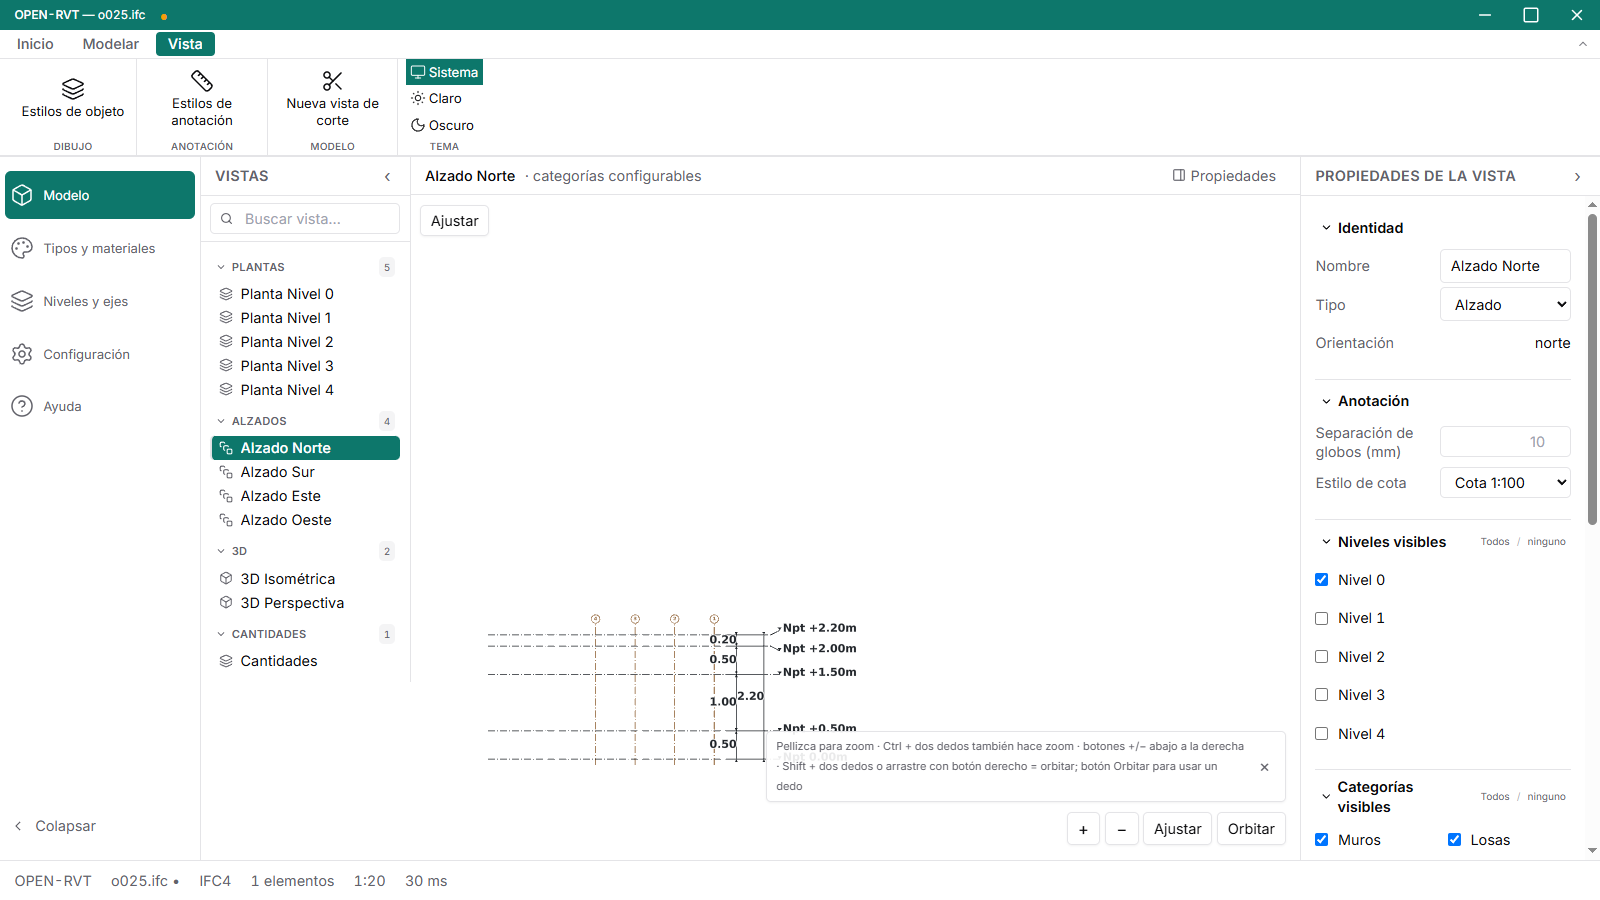
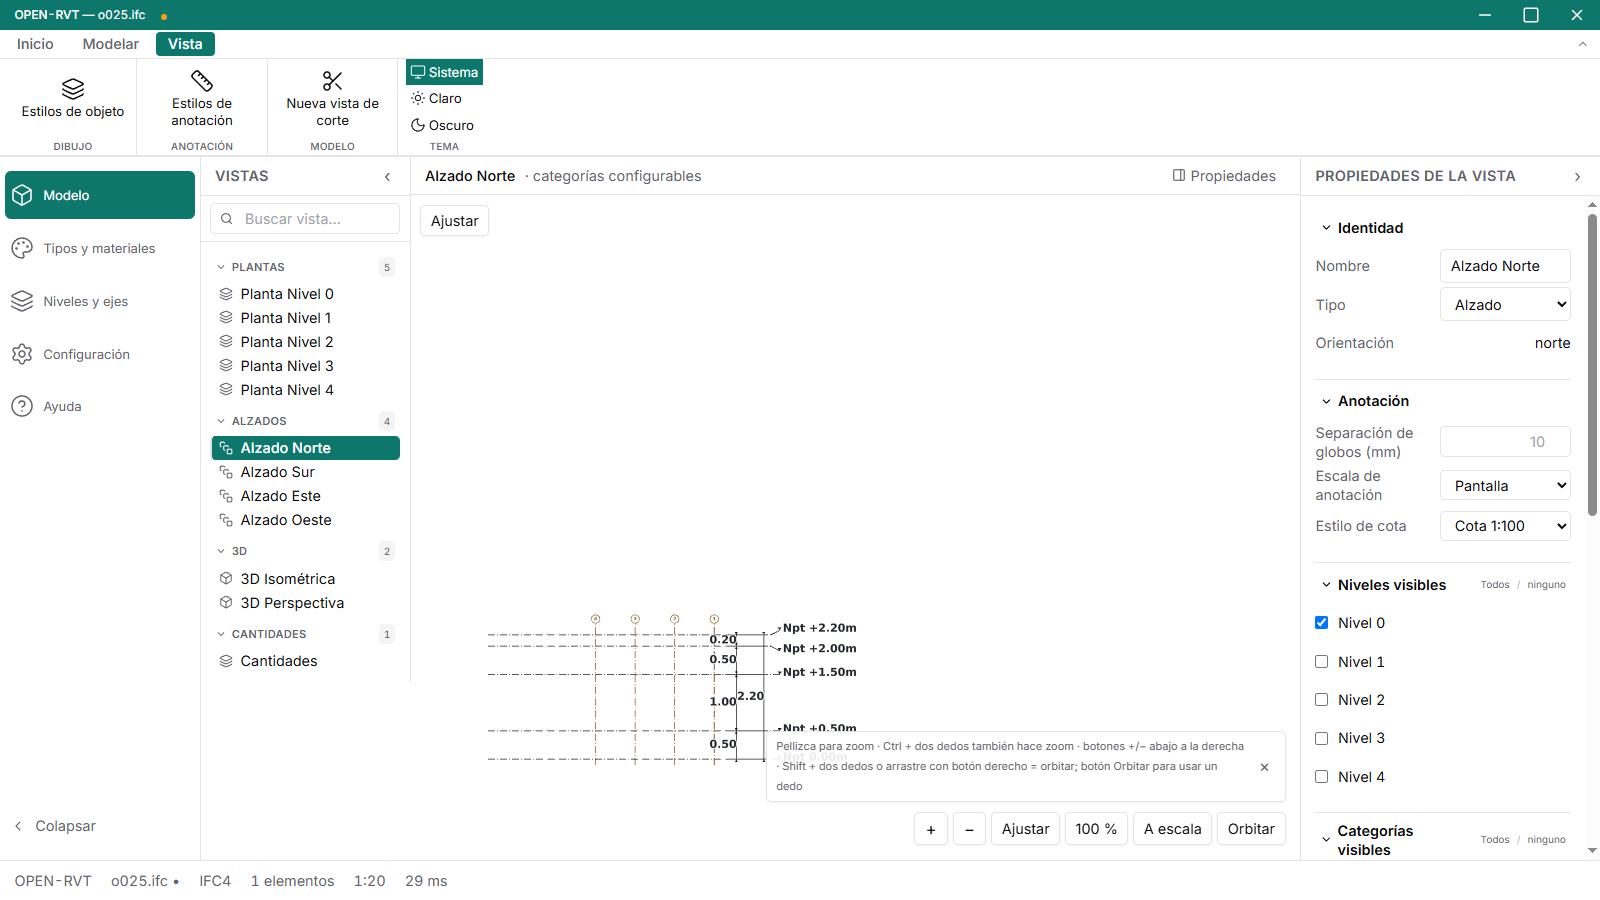
O030: zoom recalcula la anotación en pantalla, E2E y capturas; O025 conserva capturas legibles

diff --git a/e2e/o030.test.js b/e2e/o030.test.js
@@ -1,0 +1,272 @@
+// O030: la anotación en modo «A escala» mide mm de papel por la escala de la
+// vista (0.25 m de modelo por 2.5 mm a 1:100) y crece con el zoom; en
+// «Pantalla» conserva su alto en píxeles. Se mide con la app real de Tauri.
+"use strict";
+
+const { test } = require("node:test");
+const assert = require("node:assert/strict");
+const fs = require("node:fs");
+const os = require("node:os");
+const path = require("node:path");
+const { Sesion, esperar, By, until } = require("./arnes");
+
+const RAIZ = path.resolve(__dirname, "..");
+const PROGRESO = path.join(RAIZ, "docs", "progreso", "O030");
+fs.mkdirSync(PROGRESO, { recursive: true });
+
+const textoDom = (ses, selector) =>
+  ses.driver.executeScript(
+    (selector) => document.querySelector(selector)?.textContent?.trim() ?? null,
+    selector,
+  );
+
+async function cambiarPestana(ses, nombre) {
+  const pestana = await ses.driver.wait(
+    until.elementLocated(By.xpath(`//*[@role="tab"][normalize-space(.)="${nombre}"]`)),
+    10_000,
+  );
+  await pestana.click();
+  await esperar(200);
+}
+
+async function activar(ses, testid) {
+  const ok = await ses.driver.executeScript((testid) => {
+    const el = document.querySelector(`[data-testid="${testid}"]`);
+    if (!el || el.disabled) return false;
+    el.click();
+    return true;
+  }, testid);
+  assert.equal(ok, true, `no se pudo pulsar ${testid}`);
+  await esperar(350);
+}
+
+async function elegirVista(ses, nombre) {
+  const boton = await ses.driver.wait(
+    until.elementLocated(
+      By.xpath(`//button[@data-testid="vista-item"][normalize-space(.)="${nombre}"]`),
+    ),
+    10_000,
+    `no apareció la vista ${nombre}`,
+  );
+  await boton.click();
+  await esperar(800);
+}
+
+async function instalarDialogos(ses, rutas) {
+  await ses.driver.executeScript(
+    (rutas) => {
+      window.__PP_DIALOGO_PRUEBAS__ = async (peticion) => {
+        if (peticion.tipo === "abrir-ifc") return rutas.abrir || null;
+        if (peticion.tipo === "guardar-ifc") return rutas.guardar || null;
+        return null;
+      };
+    },
+    rutas,
+  );
+}
+
+async function invocar(ses, metodo, params = {}) {
+  const respuesta = await ses.driver.executeAsyncScript(
+    function (metodo, params, done) {
+      window.__TAURI_INTERNALS__
+        .invoke("nucleo_llamar", { metodo, params })
+        .then((crudo) => done({ ok: true, valor: crudo && crudo.status === "ok" ? crudo.data : crudo }))
+        .catch((error) => done({ ok: false, error: String(error) }));
+    },
+    metodo,
+    params,
+  );
+  assert.equal(respuesta.ok, true, `falló ${metodo}: ${respuesta.error}`);
+  return respuesta.valor;
+}
+
+async function clicMundo(ses, x, y) {
+  const punto = await ses.driver.executeScript(
+    (x, y) => document.querySelector('[data-testid="visor"]').__openrvtMundoAPantalla(x, y, 0),
+    x,
+    y,
+  );
+  await ses.driver.executeScript(
+    (punto) => {
+      const canvas = document.querySelector('[data-testid="visor"] canvas');
+      const opciones = {
+        bubbles: true,
+        cancelable: true,
+        button: 0,
+        buttons: 1,
+        pointerId: 1,
+        pointerType: "mouse",
+        clientX: punto.x,
+        clientY: punto.y,
+      };
+      canvas.dispatchEvent(new PointerEvent("pointerdown", opciones));
+      window.dispatchEvent(new PointerEvent("pointerup", { ...opciones, buttons: 0 }));
+    },
+    punto,
+  );
+  await esperar(320);
+}
+
+async function tecla(ses, key, code) {
+  await ses.driver.executeScript(
+    (key, code) => {
+      window.dispatchEvent(new KeyboardEvent("keydown", { key, code, bubbles: true, cancelable: true }));
+      window.dispatchEvent(new KeyboardEvent("keyup", { key, code, bubbles: true, cancelable: true }));
+    },
+    key,
+    code,
+  );
+  await esperar(250);
+}
+
+async function fijarValor(ses, testid, valor) {
+  await ses.driver.executeScript(
+    (testid, valor) => {
+      const el = document.querySelector(`[data-testid="${testid}"]`);
+      if (!el) throw new Error(`falta ${testid}`);
+      const prototipo =
+        el.tagName === "SELECT" ? HTMLSelectElement.prototype : HTMLInputElement.prototype;
+      Object.getOwnPropertyDescriptor(prototipo, "value").set.call(el, valor);
+      el.dispatchEvent(new Event("input", { bubbles: true }));
+      el.dispatchEvent(new Event("change", { bubbles: true }));
+    },
+    testid,
+    valor,
+  );
+  await esperar(150);
+}
+
+async function altoNivel(ses, texto) {
+  const dato = await ses.driver.executeScript(
+    (texto) => {
+      const datos = document.querySelector('[data-testid="visor"]').__openrvtAlzadoAnotacionesPantalla();
+      const caja = datos?.etiquetas.find((e) => e.tipo === "nivel" && e.texto === texto);
+      return caja ? caja.y1 - caja.y0 : datos?.etiquetas.map((e) => `${e.tipo}:${e.texto}`).join("|") ?? "sin datos";
+    },
+    texto,
+  );
+  assert.ok(typeof dato === "number" && dato > 0, `no se midió ${texto}: ${dato}`);
+  return dato;
+}
+
+test("O030: anotación a escala crece con el zoom y en pantalla no", async () => {
+  const ses = await Sesion.abrir({
+    prueba: "o030",
+    tamano: { ancho: 1600, alto: 900 },
+    lateralExpandido: true,
+    compositar: true,
+  });
+  const carpeta = fs.mkdtempSync(path.join(os.tmpdir(), "openrvt-o030-"));
+  const ruta = path.join(carpeta, "o030.ifc");
+  try {
+    await instalarDialogos(ses, { abrir: ruta, guardar: ruta });
+    await activar(ses, "cmd-nuevo");
+    await ses.driver.wait(async () => {
+      try {
+        return (await textoDom(ses, '[data-testid="estado-esquema"]')) === "IFC4";
+      } catch {
+        return false;
+      }
+    }, 20_000, "el modelo nuevo no cargó");
+    await cambiarPestana(ses, "Modelar");
+    for (let i = 0; i < 4; i += 1) await activar(ses, "cmd-nivel");
+    await activar(ses, "cmd-muro");
+    await clicMundo(ses, 0, 0);
+    await clicMundo(ses, 3, 0);
+    await tecla(ses, "Escape", "Escape");
+    await tecla(ses, "Escape", "Escape");
+    await esperar(500);
+
+    const niveles = (await invocar(ses, "modelo.niveles")).sort(
+      (a, b) => a.elevacion - b.elevacion,
+    );
+    const elevaciones = [0, 0.5, 1.5, 2, 2.2];
+    for (let i = 0; i < 5; i += 1) {
+      await invocar(ses, "niveles.editar", {
+        globalid: niveles[i].globalid,
+        nombre: niveles[i].nombre,
+        elevacion: elevaciones[i],
+      });
+    }
+
+    // Guardar y reabrir para que el visor reciba las elevaciones editadas.
+    await cambiarPestana(ses, "Inicio");
+    await activar(ses, "cmd-guardar");
+    await esperar(900);
+    await activar(ses, "cmd-abrir");
+    await ses.driver.wait(async () => {
+      try {
+        return (await textoDom(ses, '[data-testid="estado-modelo"]')) === "o030.ifc";
+      } catch {
+        return false;
+      }
+    }, 30_000, "no reabrió el modelo");
+
+    await elegirVista(ses, "Alzado Norte");
+    await esperar(900);
+    await fijarValor(ses, "vista-escala", "100");
+    await esperar(500);
+    await activar(ses, "visor-ajustar");
+    await esperar(600);
+    // Encuadrar la anotación (ejes, cotas y cabezas) como en la captura de O025.
+    const marco = await ses.driver.executeScript(() => {
+      const visor = document.querySelector('[data-testid="visor"]');
+      const x = JSON.parse(visor.dataset.nivelesX ?? "{}");
+      const zs = JSON.parse(visor.dataset.nivelesZ ?? "[]");
+      const zAlto = x.globoZ + x.radioGlobo;
+      const zBajo = Math.min(...zs) - 0.1;
+      const rect = visor.getBoundingClientRect();
+      const aspecto = Math.max(rect.width, 1) / Math.max(rect.height, 1);
+      const alto = Math.max(zAlto - zBajo, (x.anotacionFin - x.desde) / aspecto) * 1.08;
+      visor.__openrvtEnfocarAlzado(
+        (x.desde + x.anotacionFin) / 2,
+        (zAlto + zBajo) / 2,
+        alto,
+      );
+    });
+    void marco;
+    await ses.driver.executeScript(() => {
+      document.querySelector('[data-testid="ayuda-navegacion-cerrar"]')?.click();
+    });
+    await esperar(700);
+
+    // Por omisión el alzado va «A escala»: 2.5 mm a 1:100 = 0.25 m de modelo.
+    const aEscala = await ses.driver.executeScript(() =>
+      document.querySelector('[data-testid="visor-a-escala"]')?.getAttribute("aria-pressed"),
+    );
+    assert.equal(aEscala, "true", "el alzado no arrancó en «A escala»");
+
+    const h1 = await altoNivel(ses, "Npt +2.20m");
+    await ses.driver.executeScript(() => {
+      document.querySelector('[data-testid="visor"]').__openrvtZoom(0.5);
+    });
+    await esperar(500);
+    const h2 = await altoNivel(ses, "Npt +2.20m");
+    // El zoom ×2 duplica el alto en píxeles (tolerancia del 3 %).
+    assert.ok(Math.abs(h2 / h1 - 2) < 0.06, `a escala h1=${h1} h2=${h2}`);
+    await ses.captura(path.join(PROGRESO, "alzado-a-escala.png"));
+
+    await activar(ses, "visor-a-escala");
+    await esperar(400);
+    const p1 = await altoNivel(ses, "Npt +2.20m");
+    await ses.driver.executeScript(() => {
+      document.querySelector('[data-testid="visor"]').__openrvtZoom(0.5);
+    });
+    await esperar(500);
+    const p2 = await altoNivel(ses, "Npt +2.20m");
+    assert.ok(Math.abs(p2 - p1) <= 1, `en pantalla p1=${p1} p2=${p2}`);
+    await ses.captura(path.join(PROGRESO, "alzado-pantalla.png"));
+
+    // 100 %: 1 mm de papel = 1 mm en pantalla (96 px/pulgada), en «A escala».
+    await activar(ses, "visor-a-escala");
+    await esperar(300);
+    await activar(ses, "visor-zoom-100");
+    await esperar(600);
+    const h100 = await altoNivel(ses, "Npt +2.20m");
+    // 2.5 mm de papel a 96 px/pulgada = 9.45 px.
+    assert.ok(Math.abs(h100 - 9.45) < 1.5, `100 %: alto ${h100} px`);
+  } finally {
+    await ses.cerrar();
+    fs.rmSync(carpeta, { recursive: true, force: true });
+  }
+});

diff --git a/src/features/modelo/Visor3D.tsx b/src/features/modelo/Visor3D.tsx
@@ -908,7 +908,9 @@ export function Visor3D({
   const [oscuro, setOscuro] = useState(() =>
     typeof document !== "undefined" ? document.documentElement.classList.contains("dark") : false,
   );
-  const [dimensiones, setDimensiones] = useState({ ancho: 1, alto: 1 });  // O006a: textos de cota dibujados y edición en el sitio.
+  const [dimensiones, setDimensiones] = useState({ ancho: 1, alto: 1 });
+  // O030: el zoom obliga a recalcular la anotación en modo «Pantalla».
+  const [zoomTick, setZoomTick] = useState(0);  // O006a: textos de cota dibujados y edición en el sitio.
   const cotasInteraccion = useRef<CotaInteractiva[]>([]);
   // O011b: etiquetas de nivel y cotas del alzado, con su rectángulo, para las E2E.
   const anotacionesAlzado = useRef<AnotacionAlzado[]>([]);
@@ -3544,6 +3546,7 @@ export function Visor3D({
     niveles,
     ajusteEnCurso,
     ajustesNivelEnCurso,
+    zoomTick,
   ]);
 
   // O003b: marcadores de la herramienta de dibujo (puntos, snap y vista previa).
@@ -3813,6 +3816,7 @@ export function Visor3D({
         nav.distancia = Math.max(0.5, nav.distancia * factor);
       }
       aplicarCamara();
+      setZoomTick((tick) => tick + 1);
     },
     [aplicarCamara],
   );

diff --git a/e2e/o025.test.js b/e2e/o025.test.js
@@ -290,6 +290,9 @@ test("O025: niveles, ejes y cotas en alzado como la referencia", async () => {
     // La referencia está dibujada a 1:20; a 1:100 un tramo de 0.20 m mide 2 mm
     // de papel y su texto de 2.5 mm nunca cabría.
     await fijarValor(ses, "vista-escala", "20");
+    // Para las capturas de referencia se usa «Pantalla» (texto legible); la
+    // colocación es la misma y O030 fija «A escala» como modo por omisión.
+    await fijarValor(ses, "vista-anotacion-escala", "pantalla");
     await esperar(500);
     await activar(ses, "visor-ajustar");
     await esperar(700);

diff --git a/docs/progreso/O030.md b/docs/progreso/O030.md
@@ -1,0 +1,48 @@
+# O030: anotación a escala (tamaño de papel fijo) o en pantalla
+
+Estado: implementado y probado con la app real (rama o024).
+
+## Qué se hizo
+
+- **Modo «A escala»** (`anotacionEscala: "papel"`): textos de nivel y de cota
+  usan `altoAnotacionMundo`, que devuelve los mm de papel × la escala de la
+  vista. A 1:100 un texto de 2.5 mm mide 0.25 m de modelo y, como el resto de
+  la geometría, crece y mengua con el zoom. Lo que se ve es lo que se imprime.
+- **Modo «Pantalla»** (`"pantalla"`): el alto es constante en píxeles (11 px);
+  al alejar o acercar no cambia. Para que el cambio se aplique al hacer zoom,
+  el visor recalcula la anotación al cambiar el zoom (`zoomTick`).
+- **Modo por vista y persistencia**: `Vista.anotacionEscala` se normaliza en
+  `vistas.ts` (por omisión «A escala» en alzado/corte y «Pantalla» en el
+  resto), de modo que se guarda con la vista.
+- **Dónde se cambia**: botón «A escala» en la barra inferior del visor
+  (`visor-a-escala`, junto a Ajustar/Orbitar) y desplegable «Escala de
+  anotación» en Propiedades de la vista → Anotación
+  (`vista-anotacion-escala`).
+- **100 %**: botón `visor-zoom-100` que deja 1 mm de papel = 1 mm en pantalla
+  (96 px/pulgada CSS): 2.5 mm de papel a 96 dpi = 9.45 px.
+- Las asas de edición no cambian: siguen su curso actual.
+
+## Pruebas
+
+- `anotacionEscala.test.ts` (4), valores calculados a mano: a escala, 2.5 mm a
+  1:100 = 0.25 m a cualquier zoom; al duplicar el zoom el alto en píxeles pasa
+  de 50 a 100 px (razón 2); en pantalla el alto es 11 px con cualquier
+  `mundoPorPx` (0.02, 0.01, 0.005, 0.001); cambiar la escala de la vista cambia
+  el tamaño en modelo.
+- `anotacionVista.test.ts` (19) sigue pasando en ambos modos: la colocación sin
+  encimes se calcula con los altos reales que el visor pasa al layout.
+- Flujo completo `e2e/o030.test.js` con Tauri real: crea 0.00/0.50/1.50/2.00/
+  2.20, guarda y reabre, abre Alzado Norte a 1:100, comprueba que arranca en
+  «A escala», mide en píxeles «Npt +2.20m», duplica el zoom con
+  `__openrvtZoom(0.5)` y exige razón 2 ±3 %; pasa a «Pantalla» y exige el mismo
+  alto ±1 px con el doble de zoom; con «100 %» exige 9.45 px ±1.5. Capturas en
+  `docs/progreso/O030/alzado-a-escala.png` y `alzado-pantalla.png`.
+- `npx tsc --noEmit` y `npm run lint`: 0 errores.
+
+## Diferencias / pendientes
+
+- El zoom con rueda/gestos también recalcula la anotación en «Pantalla» (el
+  contador sube en `zoomEnCentro`); no se probó con gestos reales de touchpad.
+- El grosor de línea mantiene el mínimo de 0.8 px del visor en ambos modos; la
+  spec pedía la misma regla que los textos, que se cumple en tamaño de papel,
+  pero el mínimo de pantalla sigue ahí para que las líneas no desaparezcan.

diff --git a/docs/progreso/O025.md b/docs/progreso/O025.md
@@ -51,7 +51,9 @@ contra `ideas/img/niveles-referencia.jpg` tras la revisión del gerente.
   globos a 20 mm (0.40 m), cambia el remate a tick y por último pasa a 1:100
   con Ajustar exigiendo solo que no haya encimes.
 - Capturas en `docs/progreso/O025/`: `alzado-referencia-claro.png` y
-  `alzado-referencia-oscuro.png` (1:20 encuadrada, con globos),
+  `alzado-referencia-oscuro.png` (1:20 encuadrada, con globos; el E2E pone la
+  vista en modo «Pantalla» para que el texto sea legible, ya que O030 deja
+  «A escala» por omisión),
   `alzado-referencia-ajustar.png` (1:20 con Ajustar),
   `alzado-referencia-tick.png` y `alzado-referencia-1-100.png`.
 - `npx tsc --noEmit` y `npm run lint`: 0 errores.
